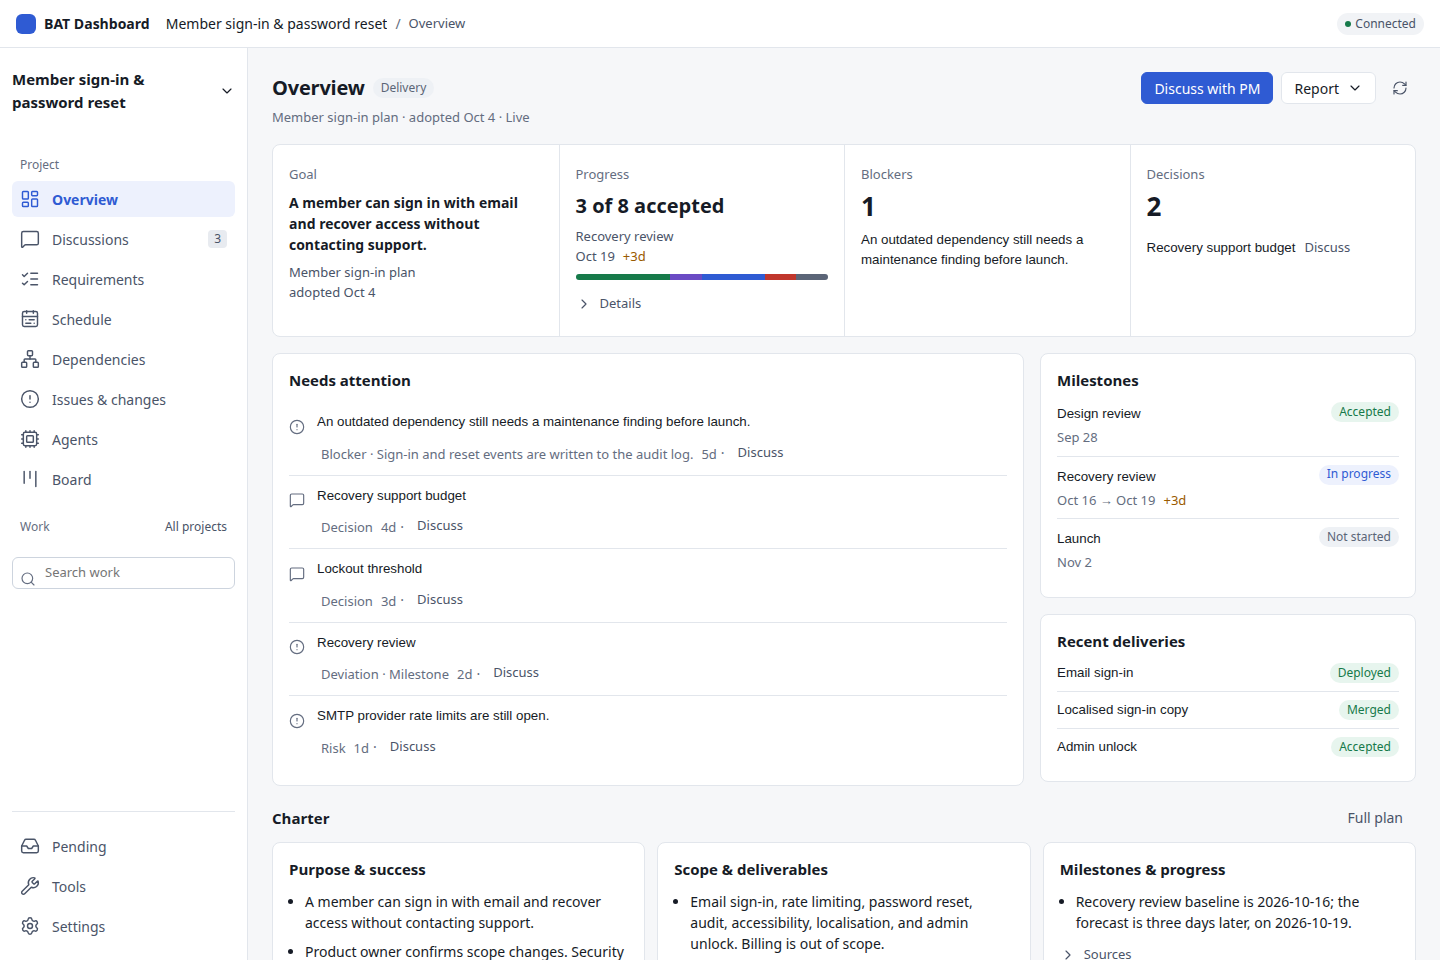
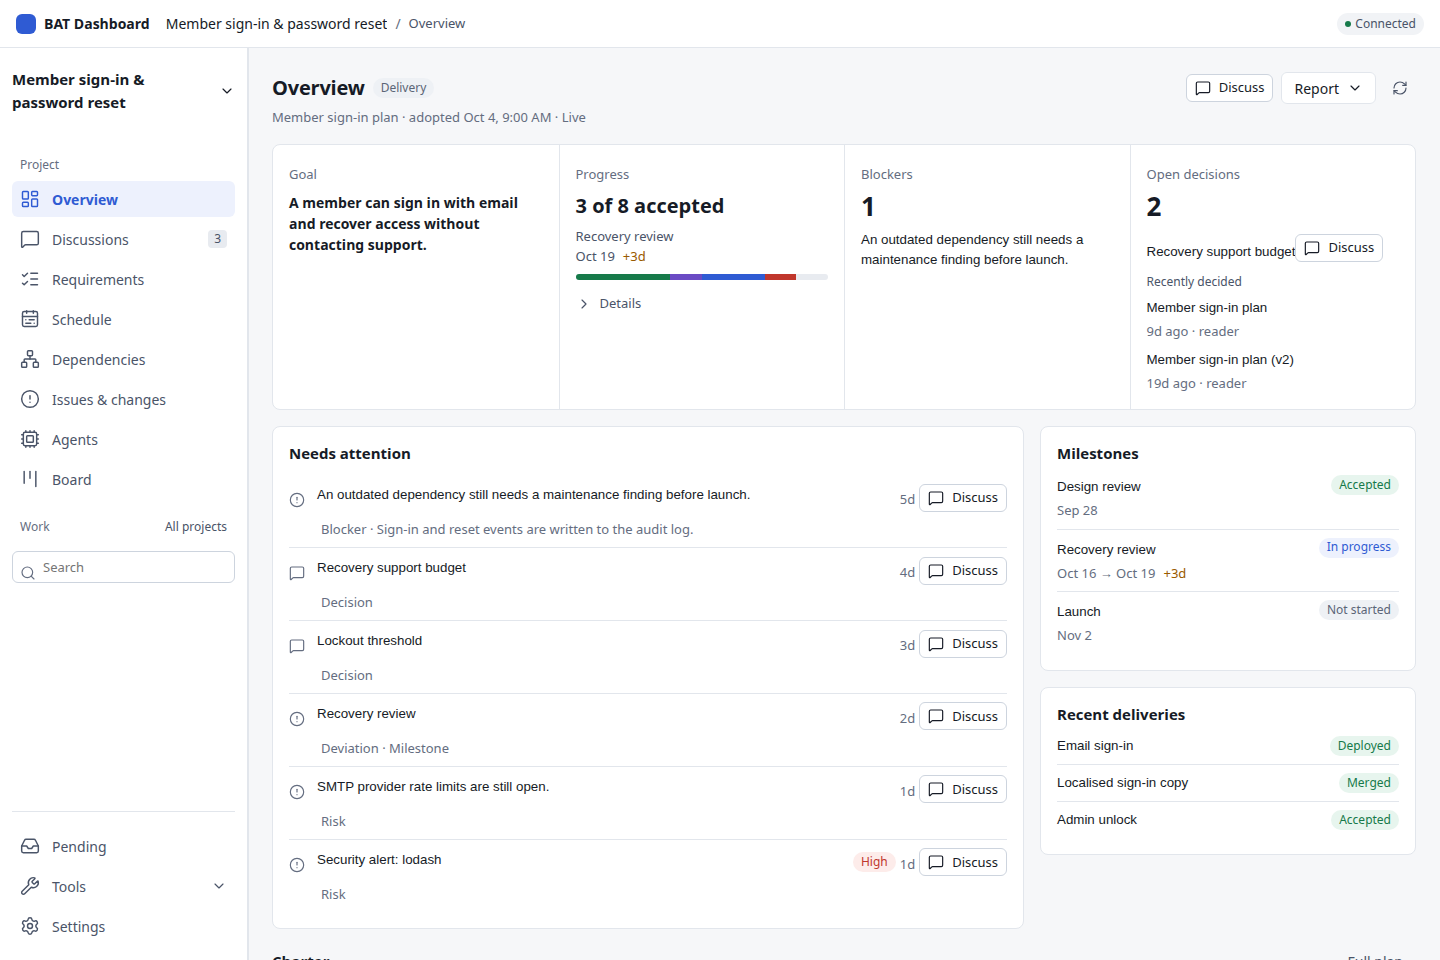
docs: recapture PM gallery from merged main

diff --git a/scripts/check_product_site.py b/scripts/check_product_site.py
@@ -133,6 +133,10 @@ for field, expected in {"synthetic_data": True, "native_or_live_acceptance": Fal
         errors.append(f"Screenshot manifest has an invalid {field} guarantee.")
 if not re.fullmatch(r"[0-9a-f]{40}", manifest.get("frontend_source_commit", "")):
     errors.append("Screenshot manifest must pin a full source commit.")
+if manifest.get("source_pin_kind") != "merged":
+    errors.append("Public screenshots must use a merged source pin.")
+if manifest.get("frontend_source_commit") != "aba02180e872f798ea54aa003b267b14eb7f5018":
+    errors.append("Public screenshots must pin merged main at aba02180.")
 for entry in manifest["images"]:
     path = SITE / "images" / entry["file"]
     if not path.is_file() or hashlib.sha256(path.read_bytes()).hexdigest() != entry["sha256"]:
@@ -160,7 +164,7 @@ def pinned(spec, text=False):
 
 
 # capture_site.mjs requires these paths to equal the pinned commit and reads its tooling from the checkout.
-# Hash frontend sources at that commit, so a gallery pinned to a candidate branch still checks on main.
+# Hash frontend sources at the merged pin, so later documentation commits can check the gallery.
 PINNED_PATHS = ("desktop/src/", "desktop/tests/demo/", "src/bat_agent_connector/dashboard/")
 commit = manifest.get("frontend_source_commit", "")
 if pinned(["cat-file", "-e", f"{commit}^{{commit}}"]) is None:

diff --git a/site/images/README.md b/site/images/README.md
@@ -1,24 +1,30 @@
 # Product screenshots
 
-These sixteen unedited PNGs show the real shared browser frontend at candidate
-`944a854fc381f61c6281edb7fcbcf887321a0c68`, using the single membership demo project
+These sixteen unedited PNGs show the real shared browser frontend from merged main
+`aba02180e872f798ea54aa003b267b14eb7f5018`, using the single membership demo project
 in [`desktop/tests/demo/index.ts`](../../desktop/tests/demo/index.ts).
-This is a development preview, not merged-main, native installation or live acceptance evidence.
-Re-pin the capture to merged main and regenerate it after frontend #133 merges.
+Frontend #133 merged on 2026-10-14 as `cb7e9f42`, after #132 and #134.
+This development preview is shared-browser evidence; nothing is installed or live-tested.
 The [progress report](../../docs/product/progress-2026-10-14.md) separates those states.
 
 | Images (English / zh-TW) | Scene and state |
 | --- | --- |
-| `overview-en.png`, `overview-zh.png` | Live Overview: eight adopted requirements, three accepted, one blocker, two pending decisions and a recorded forecast three days late. Saved reports are separate. |
+| `overview-en.png`, `overview-zh.png` | Live Overview: eight adopted requirements, three accepted, one blocker, two pending decisions and a recorded forecast three days late. Recently decided shows the two existing synthetic plan adoption receipts, separately from pending decisions. The maintenance alert names its package. Saved reports are separate. |
 | `discussions-en.png`, `discussions-zh.png` | Discussion opened from the Overview blocker through its Discuss link. Automatic title, original context chip and a reviewable proposal; the proposal is not adopted and does not authorize work. |
 | `requirements-en.png`, `requirements-zh.png` | RTM with email sign-in expanded and its bound work inspector open. Requirement acceptance, PR merge and deployment remain separate evidence. |
-| `issues-en.png`, `issues-zh.png` | Both register pages loaded, showing risks, issues, an action, a proposed change and a decision. Open records remain open. |
-| `schedule-en.png`, `schedule-zh.png` | Recorded baseline, forecast and actual dates, with Design review collapsed through its normal control. Recovery review is forecast three days late; undated session attempts remain unscheduled. |
+| `issues-en.png`, `issues-zh.png` | Both register pages loaded: nine records, including named maintenance findings, risks, issues, an action, a proposed change and a decision. Open records remain open. |
+| `schedule-en.png`, `schedule-zh.png` | Recorded baseline, forecast and actual dates on a labelled axis, with Design review collapsed through its normal control. Phone tracks use one fitted date range. Recovery review is forecast three days late; undated session attempts remain unscheduled. |
 | `dependencies-en.png`, `dependencies-zh.png` | Pinned inventory graph with its Partial label and evidence legend. The graph is bounded; missing versions, ownership and freshness remain unknown. |
 | `board-en.png`, `board-zh.png` | Twelve synthetic work items across five workflow lanes. Waiting and review states remain distinct from accepted content and delivery. |
 | `session-en.png`, `session-zh.png` | Manual BAT session on `demo-host`, with its read-only transcript. There are no send, answer or interrupt controls. |
 
 All product data is synthetic, including acceptance and delivery receipts.
+The capture script projects Recently decided from the demo's existing plan adoption
+receipts using the central read shape; it invents no decisions or counts.
+The eight-scene public tour stays compact. Agents and Overview's Unknown versus
+None recorded states have additional bilingual review captures, outside the public gallery.
+The explicit Resolve step is covered by the separate
+[real-central walkthrough](../../docs/design/pm-decision-walkthrough.md), with mock external transports.
 The discussion scene performs only three mock operations: create a bound thread,
 save a note and prepare a proposal. It stops before adoption; all other scenes are reads.
 No customer data, real host, provider or credential is used.
@@ -29,7 +35,7 @@ Public images are 1440 × 960, light theme, UTC, with actual browser locales
 inspector controls. It does not hide, replace or rewrite DOM content.
 The app also supports the user's system dark theme.
 
-[`manifest.json`](manifest.json) records the candidate source commit and frontend
+[`manifest.json`](manifest.json) records the merged source commit and frontend
 tree, capture time, fixture clock, browser/Node versions, actual locale and viewport.
 SHA-256 hashes cover the script, demo dependencies, lockfile, served browser assets
 and every PNG. Each scene has fresh-context overflow checks at 390, 768 and 1440px.
@@ -47,7 +53,7 @@ To repeat the capture:
      node --experimental-strip-types scripts/capture_site.mjs
    ```
 
-4. Inspect all sixteen public images and the 48 responsive previews in `CAPTURE_REVIEW_DIR`.
+4. Inspect all sixteen public images, the 48 responsive previews and 18 additional review captures in `CAPTURE_REVIEW_DIR`.
    Review the regenerated manifest before committing.
 
 The script owns its ephemeral loopback server and Chromium, and closes both on exit.

diff --git a/site/README.md b/site/README.md
@@ -10,12 +10,11 @@ The product introduction follows one project journey: understand its state, find
 problem, discuss it with the PM and review a decision in the same context.
 It retains Windows Fleet, central authority, platform differences and installation guidance.
 
-The redesigned views and sixteen screenshots are a **candidate preview** pinned to
-`944a854fc381f61c6281edb7fcbcf887321a0c68`.
-Backend #132 merged into main as `0c354861` on October 13, 2026; it is not installed or live-tested.
-Decision-loop backend #134 merged into main as `f25e1556` on October 13, 2026; it is not installed or live-tested.
-Frontend #133, which includes the walkthrough, is in review. Re-pin to merged main and regenerate
-the gallery after #133 merges.
+The redesigned views and sixteen screenshots are a **development preview from merged main**
+pinned to `aba02180e872f798ea54aa003b267b14eb7f5018`.
+Backend #132 merged as `0c354861` on October 13, 2026; #134 merged as `f25e1556`
+on October 14. Frontend #133 merged afterward on October 14 as `cb7e9f42`.
+Nothing is installed or live-tested. CI and browser screenshots do not establish native or live acceptance.
 Keep validation outcomes in the dated [progress report](../docs/product/progress-2026-10-14.md);
 link it from the site. The [October 12 report](../docs/product/progress-2026-10-12.md) retains historical evidence.
 The [handoff](../docs/handoff/2026-10-12-pm-v1.2.md) has development continuation
@@ -48,6 +47,9 @@ The gallery has eight scenes in two languages: Overview, Discussions, Requiremen
 Issues & changes, Schedule, Dependencies, Board and a read-only manual Session. See [screenshot provenance and reproduction](images/README.md).
 All are unedited captures of the real shared frontend using one synthetic demo project.
 The discussion proposal is unadopted; unassessed quality and incomplete coverage remain visible.
+Recently decided uses the existing synthetic plan adoption receipts. Named findings and
+the Schedule axis come from the merged UI. Agents and Overview empty-state variants
+remain review captures, keeping the public tour at eight scenes.
 
 When frontend source changes, update the deliberate source pin, check fixture
 compatibility, regenerate all sixteen images and inspect the 390/768/1440 previews.
